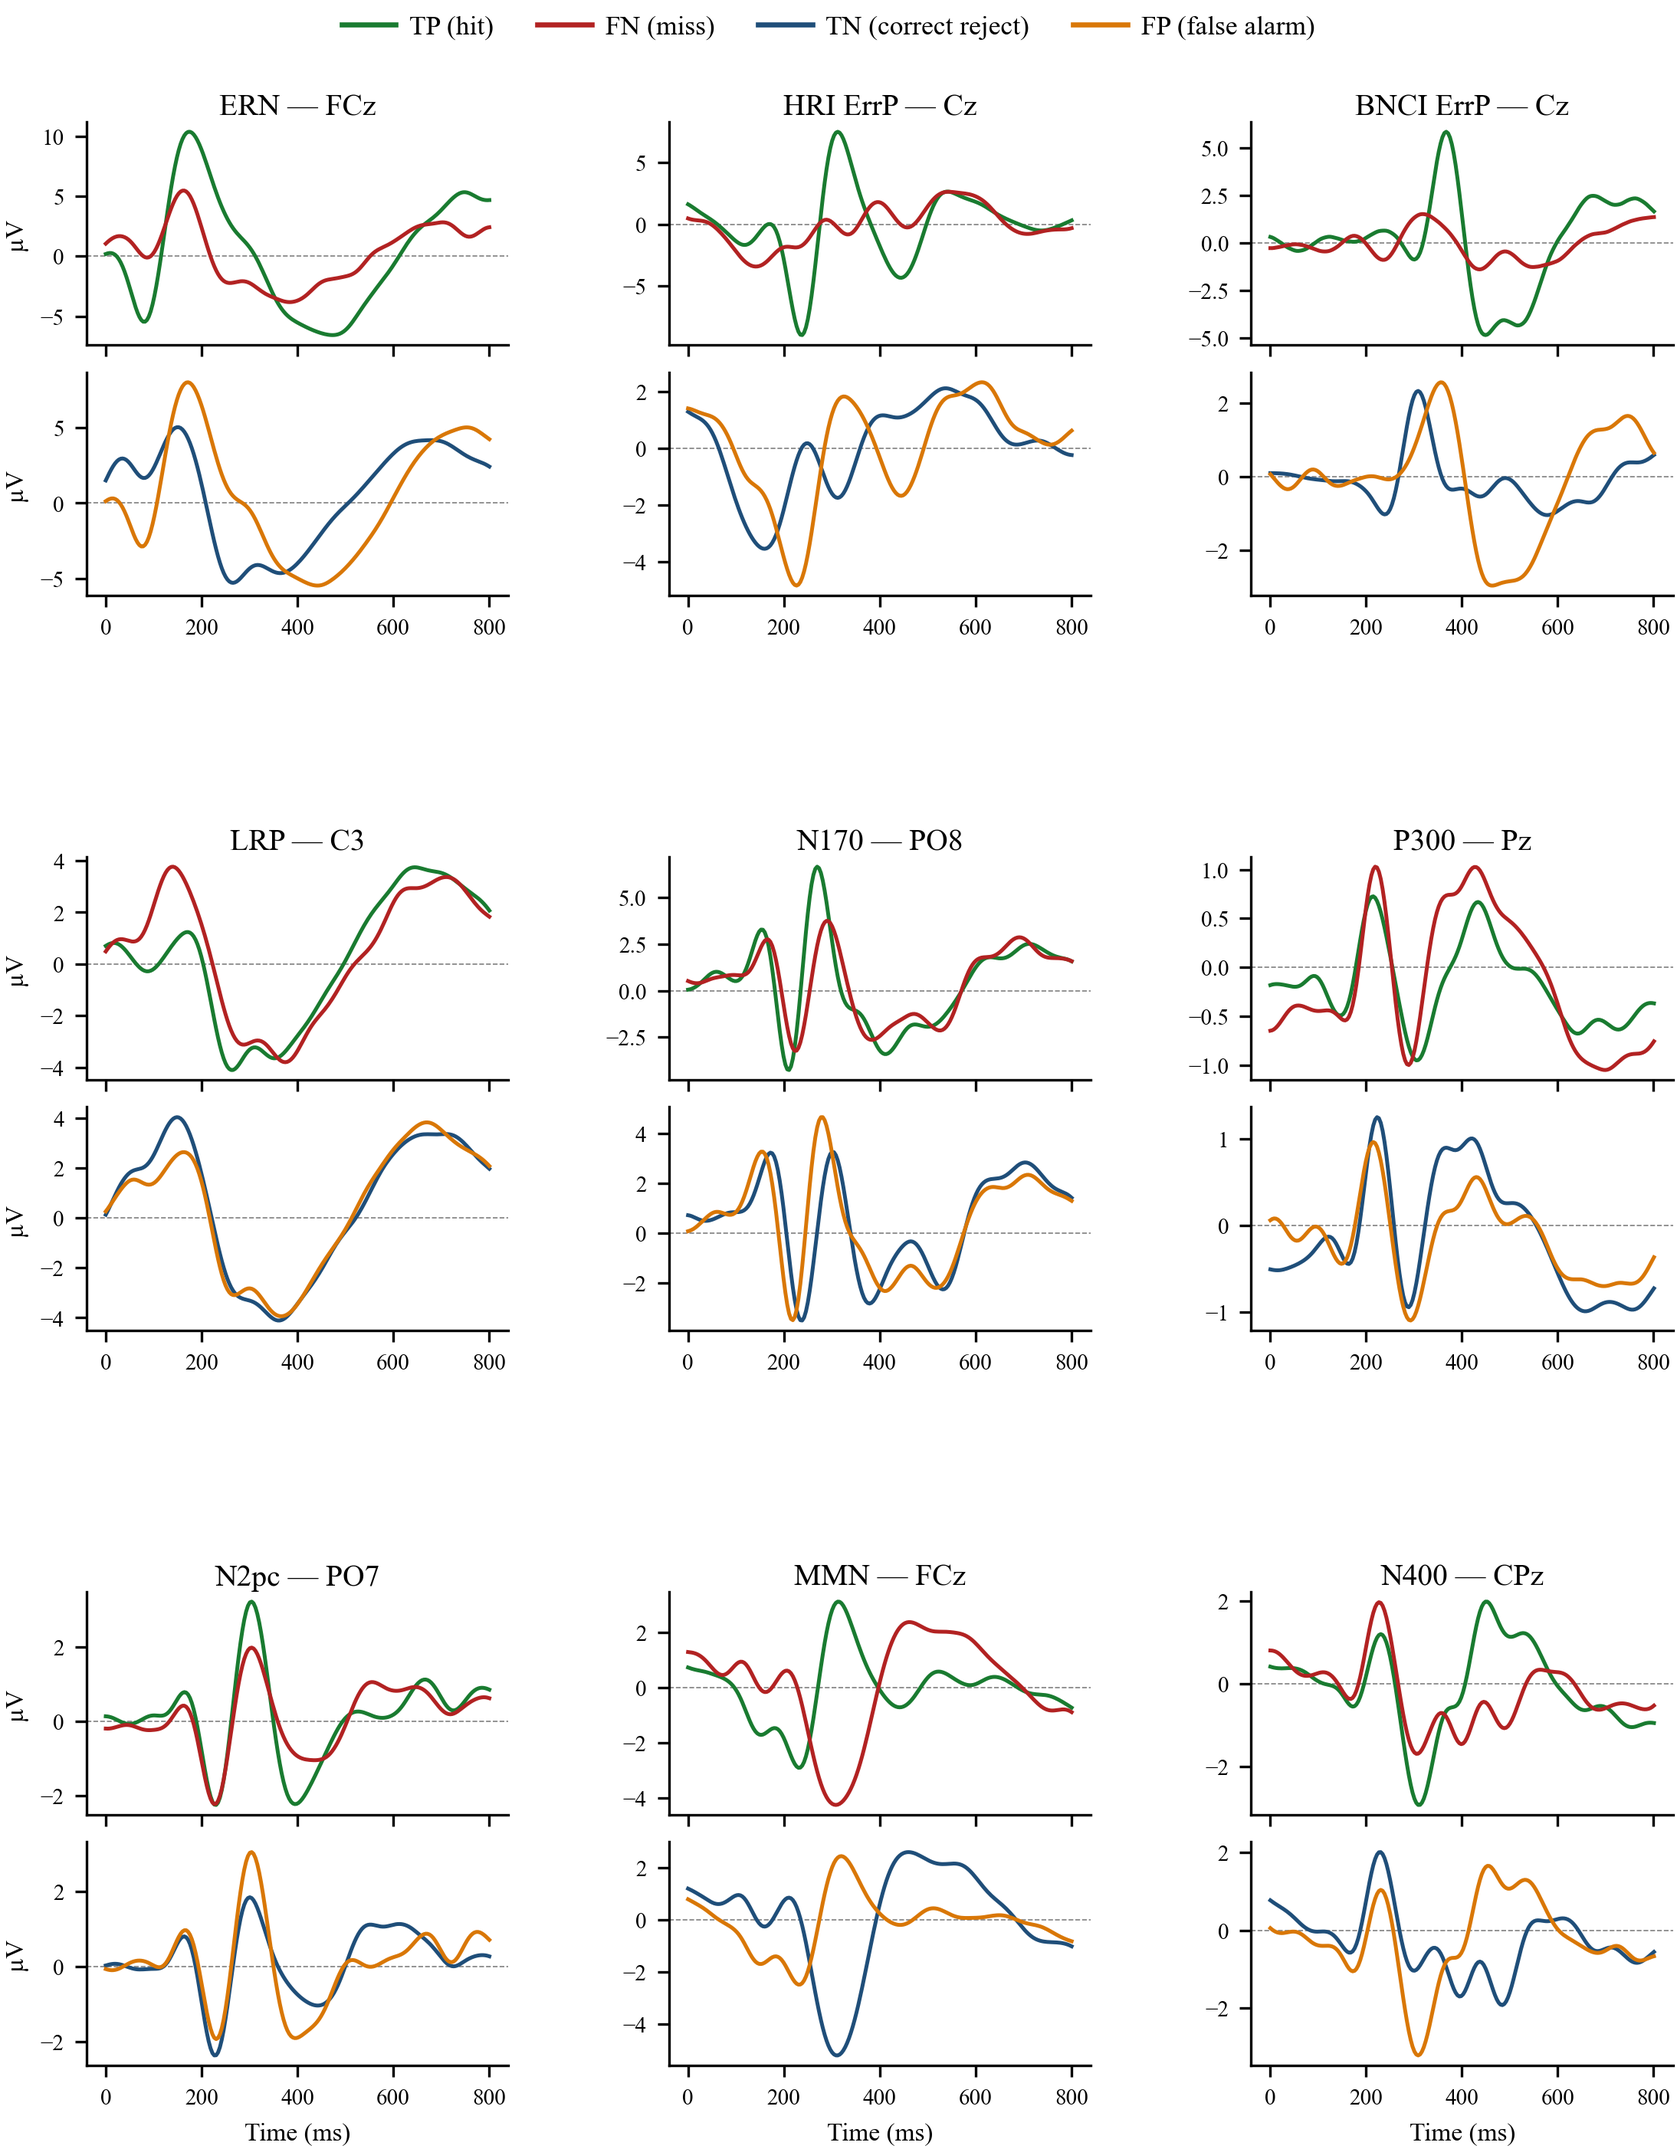
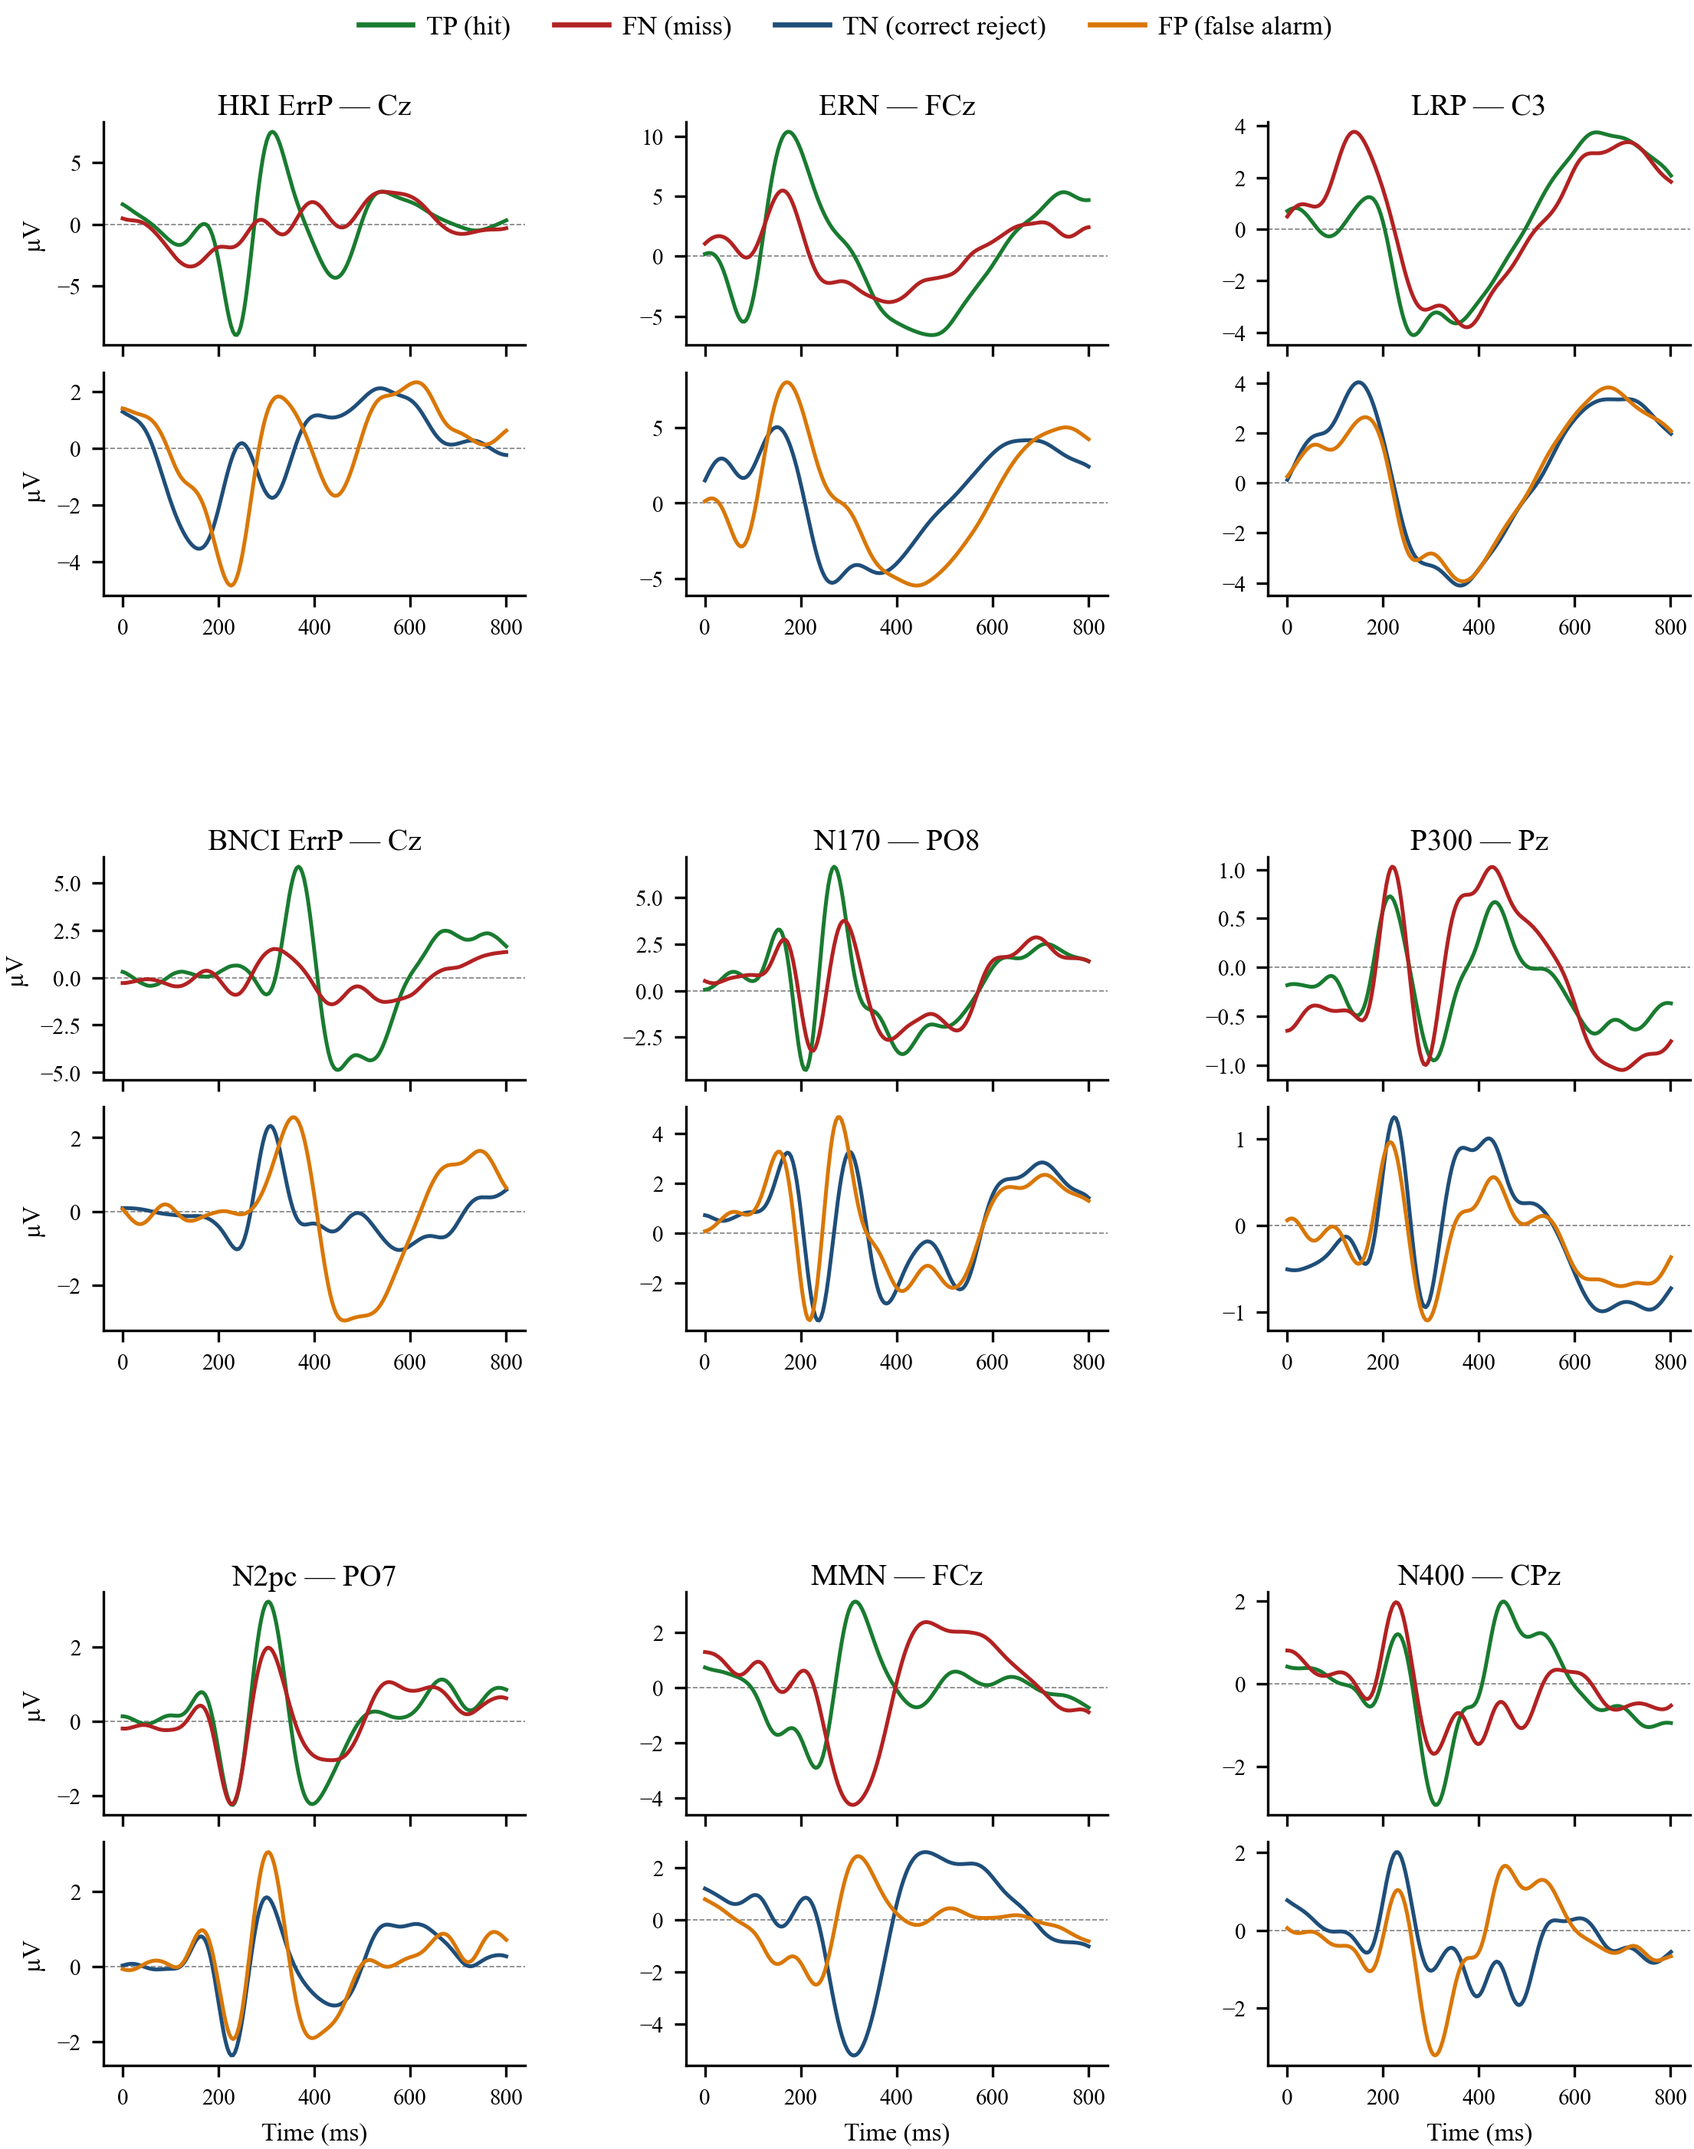
fix ordering for figure

diff --git a/07_gen_paper_figures.py b/07_gen_paper_figures.py
@@ -847,12 +847,7 @@ def fig_morphology_grid_supp(out_path):
     outer = fig.add_gridspec(n_rows, n_cols, hspace=0.55, wspace=0.38,
                              left=0.07, right=0.99, top=0.93, bottom=0.04)
 
-    # Local row order: ERN, HRI ErrP, BNCI ErrP, LRP, then DATASETS order —
-    # matching fig_prototypes_all_datasets so the two supp figures align.
-    row_order = ['ERN', 'HRI ErrP', 'BNCI ErrP', 'LRP',
-                 'N170', 'P300', 'N2pc', 'MMN', 'N400']
-    by_name = {row[0]: row for row in DATASETS}
-    datasets_ordered = [by_name[n] for n in row_order]
+    datasets_ordered = _difficulty_order()
 
     for idx, (ds_label, ds_dir, c3, _cf, _k3, _kf, det_idx) in enumerate(datasets_ordered):
         r, c = idx // n_cols, idx % n_cols
